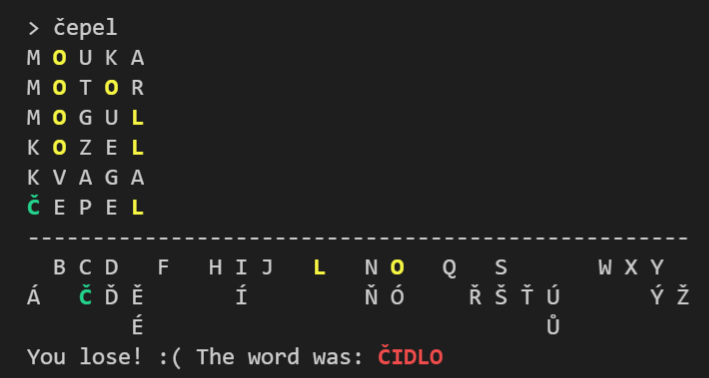
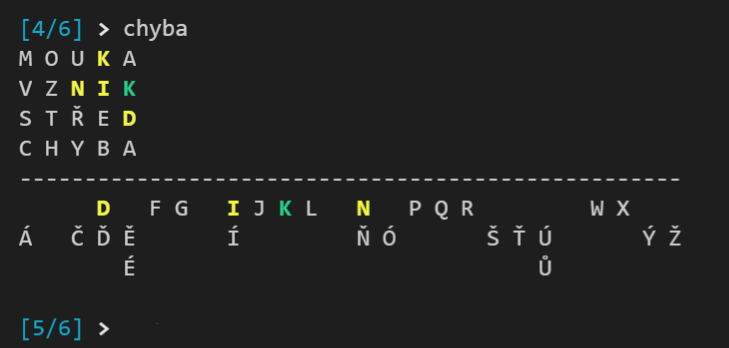
More UI improvements

diff --git a/src/lib.rs b/src/lib.rs
@@ -37,7 +37,7 @@ fn play_one_game(dictionary: &Dictionary) {
     let mut game = Game::new(6, dictionary);
 
     loop {
-        let guessed_word = input_word();
+        let guessed_word = input_word(game.get_remaining_guesses() + 1, game.get_total_guesses());
         let guess_result = game.submit_guess(&guessed_word);
 
         let mut is_game_over = false;
@@ -52,9 +52,9 @@ fn play_one_game(dictionary: &Dictionary) {
     }
 }
 
-fn input_word() -> String {
+fn input_word(guess_number: u32, available_guesses: u32) -> String {
     let mut input = String::new();
-    print!("> ");
+    printer::print_caret(guess_number, available_guesses);
     let _ = io::stdout().flush();
 
     match io::stdin().read_line(&mut input) {

diff --git a/src/game/mod.rs b/src/game/mod.rs
@@ -101,6 +101,14 @@ impl<'d> Game<'d> {
         &self.state.guesses
     }
 
+    pub fn get_remaining_guesses(&self) -> u32 {
+        self.state.guesses.len().try_into().unwrap()
+    }
+
+    pub fn get_total_guesses(&self) -> u32 {
+        self.state.maximum_tries
+    }
+
     fn calculate_guess(&mut self, guessed_word: &str) -> Guess {
         let mut result_guess = Guess {
             is_correct: false,

diff --git a/src/printer/mod.rs b/src/printer/mod.rs
@@ -6,6 +6,11 @@ use colored::*;
 use super::game::Guess;
 use super::letters::Letters;
 
+pub fn print_caret(guess_number: u32, available_guesses: u32) {
+    let text = format!("[{}/{}]", guess_number, available_guesses);
+    print!("{} {} ", text.cyan(), ">".bold());
+}
+
 pub fn print_win(tries: u32) {
     println!(
         "Yay! {}",
